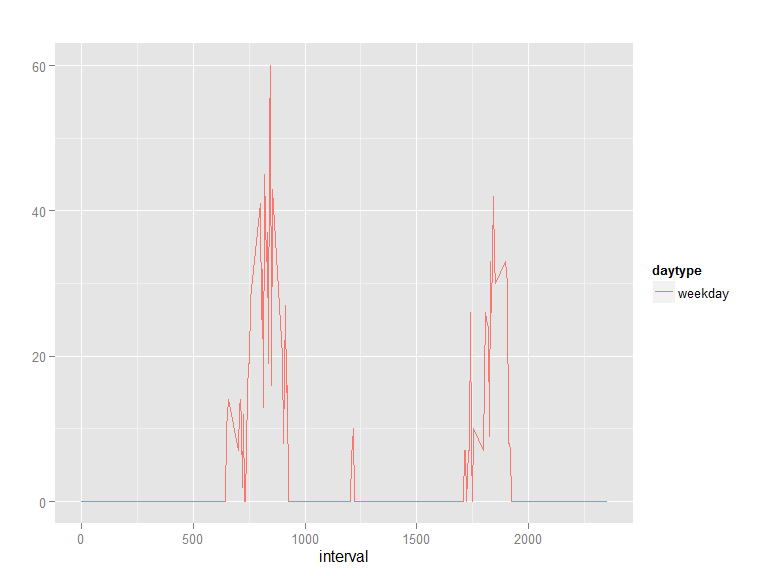
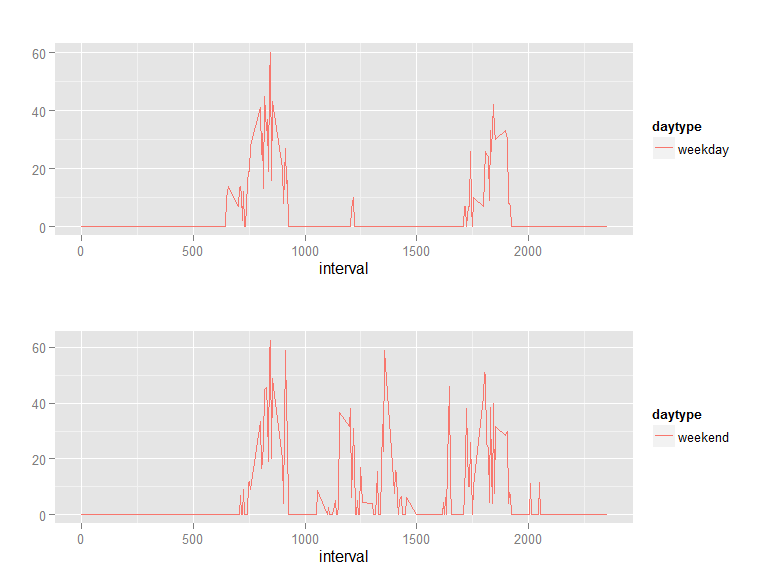
+ updated to use panel plot as suggested

diff --git a/PA1_template.html b/PA1_template.html
@@ -67,9 +67,8 @@ img {
 
 
 <pre class="r"><code>library(ggplot2)
-library(knitr)</code></pre>
-<pre><code>## Warning: package &#39;knitr&#39; was built under R version 3.1.3</code></pre>
-<pre class="r"><code>#opts_chunk$set(fig.path=&#39;figures/&#39;)</code></pre>
+library(knitr)
+library(gridExtra)</code></pre>
 <div id="loading-and-preprocessing-the-data" class="section level2">
 <h2>Loading and preprocessing the data</h2>
 <pre class="r"><code>d&lt;-read.csv(file = &quot;activity.csv&quot;)</code></pre>
@@ -86,19 +85,20 @@ hist(sumStepsByDate$steps)</code></pre>
 <pre><code>## [1] 10765</code></pre>
 </div>
 <div id="what-is-the-average-daily-activity-pattern" class="section level2">
-<h2>What is the average daily activity pattern?</h2>
+<h2>What is the average daily activity pattern</h2>
 <pre class="r"><code>x&lt;-aggregate(d$steps, by = list(d$interval), FUN = median, na.rm=TRUE)
 names(x)&lt;-c(&quot;interval&quot;, &quot;steps&quot;)
 with(x, plot(x$interval, x$steps, type = &#39;n&#39;, ylab = &#39;Steps&#39;, xlab=&#39;Interval&#39;))
 with(x, lines(x$interval, x$steps, col=&#39;black&#39;))</code></pre>
 <p><img src="figures/unnamed-chunk-5-1.png" /><br /> ## Imputing missing values</p>
-<div id="number-of-missing-values" class="section level3">
-<h3>Number of missing values</h3>
+<div id="number-of-missing-values-na-values" class="section level3">
+<h3>Number of missing values (NA values)</h3>
 <pre class="r"><code>NROW(which(is.na(d$steps)))</code></pre>
 <pre><code>## [1] 2304</code></pre>
 </div>
 <div id="replace-na-values-with-median-steps-in-the-interval-over-all-days-without-na-values" class="section level3">
 <h3>Replace NA values with median steps in the interval over all days without NA values</h3>
+<p>The strategy to replace the NA values is to replace them with the median of the current interval over all days</p>
 <pre class="r"><code>medianStepsByInterval&lt;-aggregate(d$steps, by = list(d$interval), FUN = median, na.rm=TRUE)
 names(medianStepsByInterval)&lt;-c(&quot;interval&quot;, &quot;steps&quot;)
 
@@ -136,11 +136,15 @@ d2ax&lt;-aggregate(d2$steps, by = list(d2$interval,d2$daytype), FUN = median)
 names(d2ax)&lt;-c(&quot;interval&quot;, &quot;daytype&quot;, &quot;steps&quot;)
 
 d2a&lt;-d2ax[which(d2ax$daytype==&quot;weekday&quot;),]
-qplot(interval, steps, color=daytype, data=d2a, geom=c(&quot;line&quot;), ylab = &#39;&#39;, main = &#39;&#39;)</code></pre>
-<p><img src="figures/unnamed-chunk-10-1.png" /><br /></p>
-<pre class="r"><code>d2a&lt;-d2ax[which(d2ax$daytype==&quot;weekend&quot;),]
-qplot(interval, steps, color=daytype, data=d2a, geom=c(&quot;line&quot;), ylab = &#39;&#39;, main = &#39;&#39;)</code></pre>
-<p><img src="figures/unnamed-chunk-10-2.png" /><br /> From the graphs it can be concluded, that on the weekend in about the interval 900 to 1600 a much higher step amount can be seen.</p>
+plot1&lt;-qplot(interval, steps, color=daytype, data=d2a, geom=c(&quot;line&quot;), ylab = &#39;&#39;, main = &#39;&#39;)
+
+d2a&lt;-d2ax[which(d2ax$daytype==&quot;weekend&quot;),]
+plot2&lt;-qplot(interval, steps, color=daytype, data=d2a, geom=c(&quot;line&quot;), ylab = &#39;&#39;, main = &#39;&#39;)
+
+plotList&lt;-list(plot1,plot2)
+# using lib gridextra
+do.call(grid.arrange,  plotList)</code></pre>
+<p><img src="figures/unnamed-chunk-10-1.png" /><br /> From the graphs it can be concluded, that on the weekend in about the interval 900 to 1600 a much higher step amount can be seen.</p>
 </div>
 
 

diff --git a/PA1_template.md b/PA1_template.md
@@ -1,19 +1,12 @@
 # Reproducible Research: Peer Assessment 1
 
+
+
 ```r
 library(ggplot2)
 library(knitr)
+library(gridExtra)
 ```
-
-```
-## Warning: package 'knitr' was built under R version 3.1.3
-```
-
-```r
-#opts_chunk$set(fig.path='figures/')
-```
-
-
 
 ## Loading and preprocessing the data
 
@@ -51,7 +44,7 @@ median(sumStepsByDate$steps, na.rm = TRUE)
 ## [1] 10765
 ```
 
-## What is the average daily activity pattern?
+## What is the average daily activity pattern
 
 ```r
 x<-aggregate(d$steps, by = list(d$interval), FUN = median, na.rm=TRUE)
@@ -64,7 +57,7 @@ with(x, lines(x$interval, x$steps, col='black'))
 
 ## Imputing missing values
 
-### Number of missing values
+### Number of missing values (NA values)
 
 ```r
 NROW(which(is.na(d$steps)))
@@ -75,6 +68,9 @@ NROW(which(is.na(d$steps)))
 ```
 
 ### Replace NA values with median steps in the interval over all days without NA values
+
+The strategy to replace the NA values is to replace them with the median of the current interval over all days
+
 
 ```r
 medianStepsByInterval<-aggregate(d$steps, by = list(d$interval), FUN = median, na.rm=TRUE)
@@ -132,16 +128,16 @@ d2ax<-aggregate(d2$steps, by = list(d2$interval,d2$daytype), FUN = median)
 names(d2ax)<-c("interval", "daytype", "steps")
 
 d2a<-d2ax[which(d2ax$daytype=="weekday"),]
-qplot(interval, steps, color=daytype, data=d2a, geom=c("line"), ylab = '', main = '')
+plot1<-qplot(interval, steps, color=daytype, data=d2a, geom=c("line"), ylab = '', main = '')
+
+d2a<-d2ax[which(d2ax$daytype=="weekend"),]
+plot2<-qplot(interval, steps, color=daytype, data=d2a, geom=c("line"), ylab = '', main = '')
+
+plotList<-list(plot1,plot2)
+# using lib gridextra
+do.call(grid.arrange,  plotList)
 ```
 
 ![](figures/unnamed-chunk-10-1.png)\
-
-```r
-d2a<-d2ax[which(d2ax$daytype=="weekend"),]
-qplot(interval, steps, color=daytype, data=d2a, geom=c("line"), ylab = '', main = '')
-```
-
-![](figures/unnamed-chunk-10-2.png)\
 
 From the graphs it can be concluded, that on the weekend in about the interval 900 to 1600 a much higher step amount can be seen.
